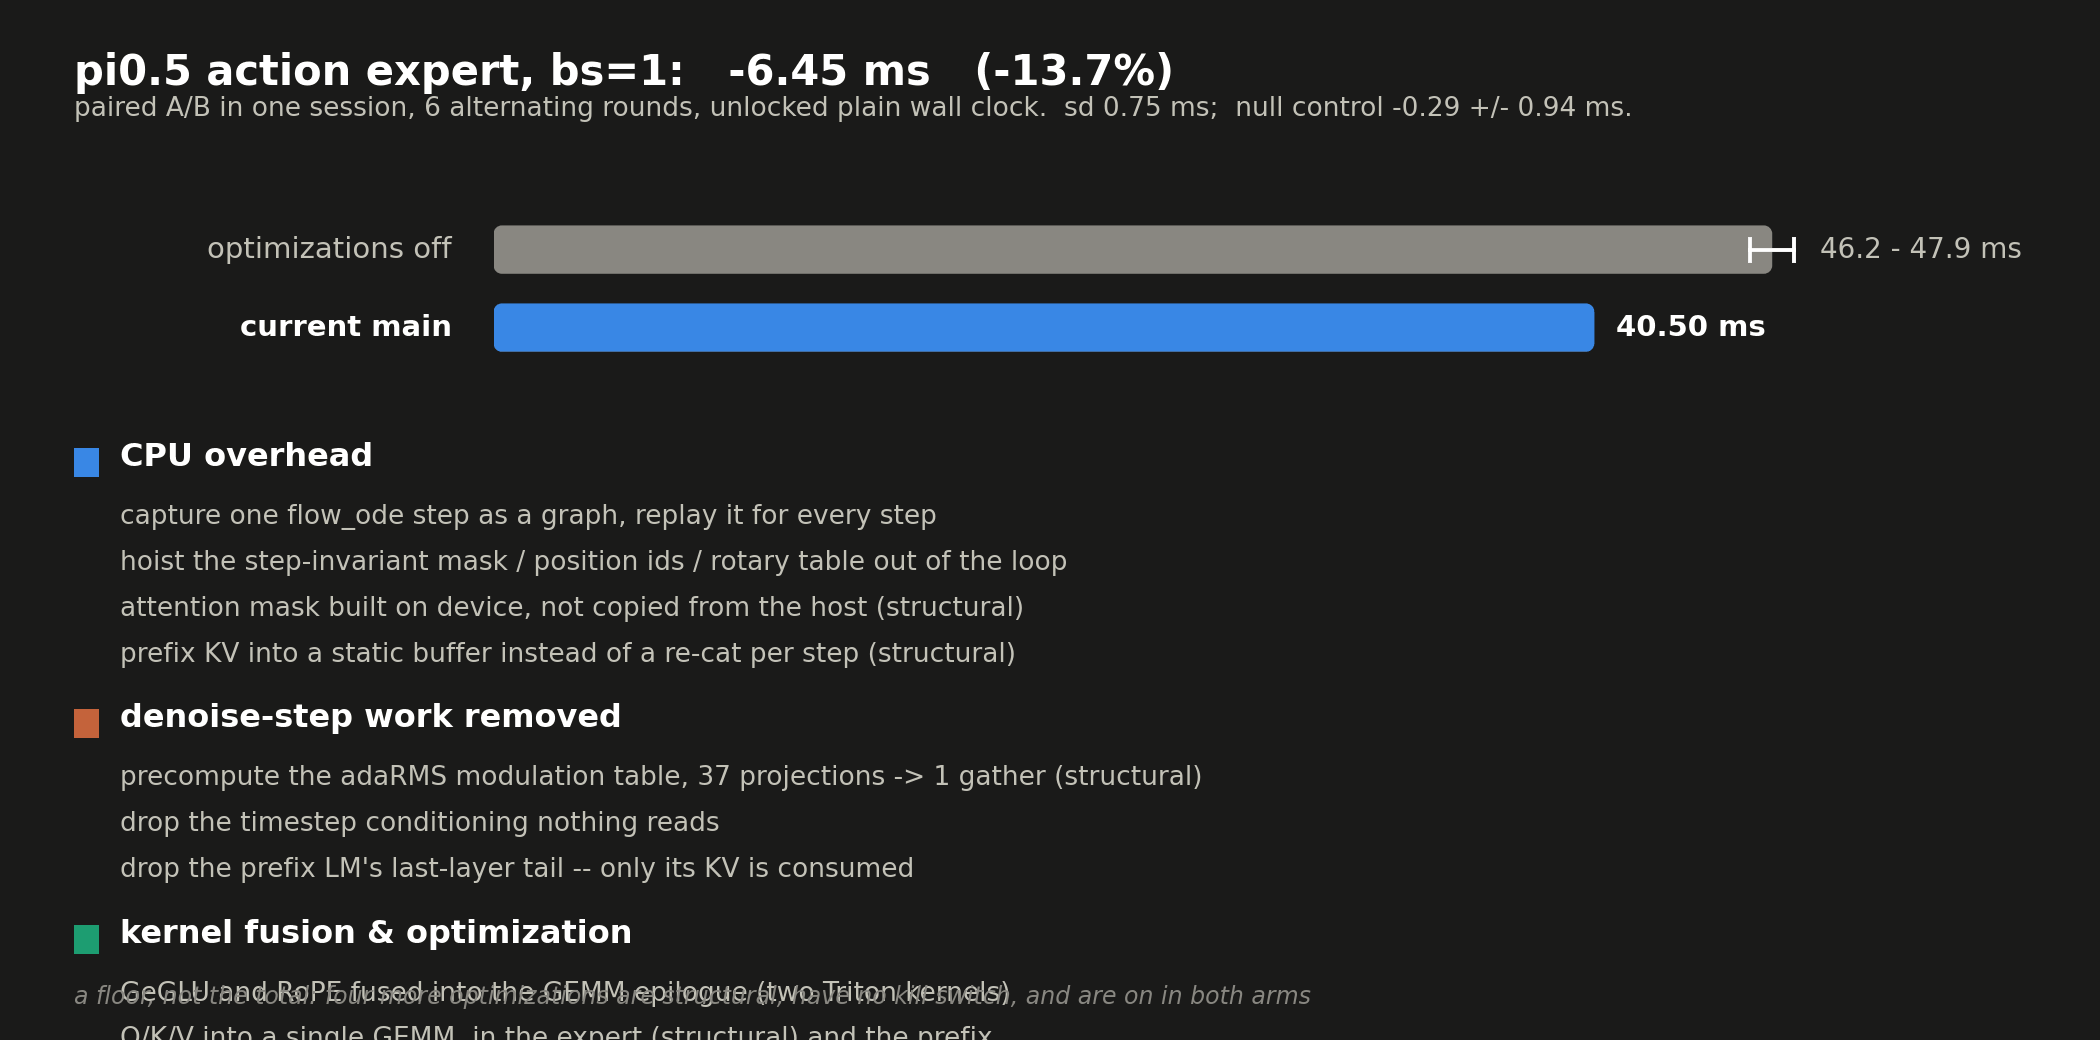
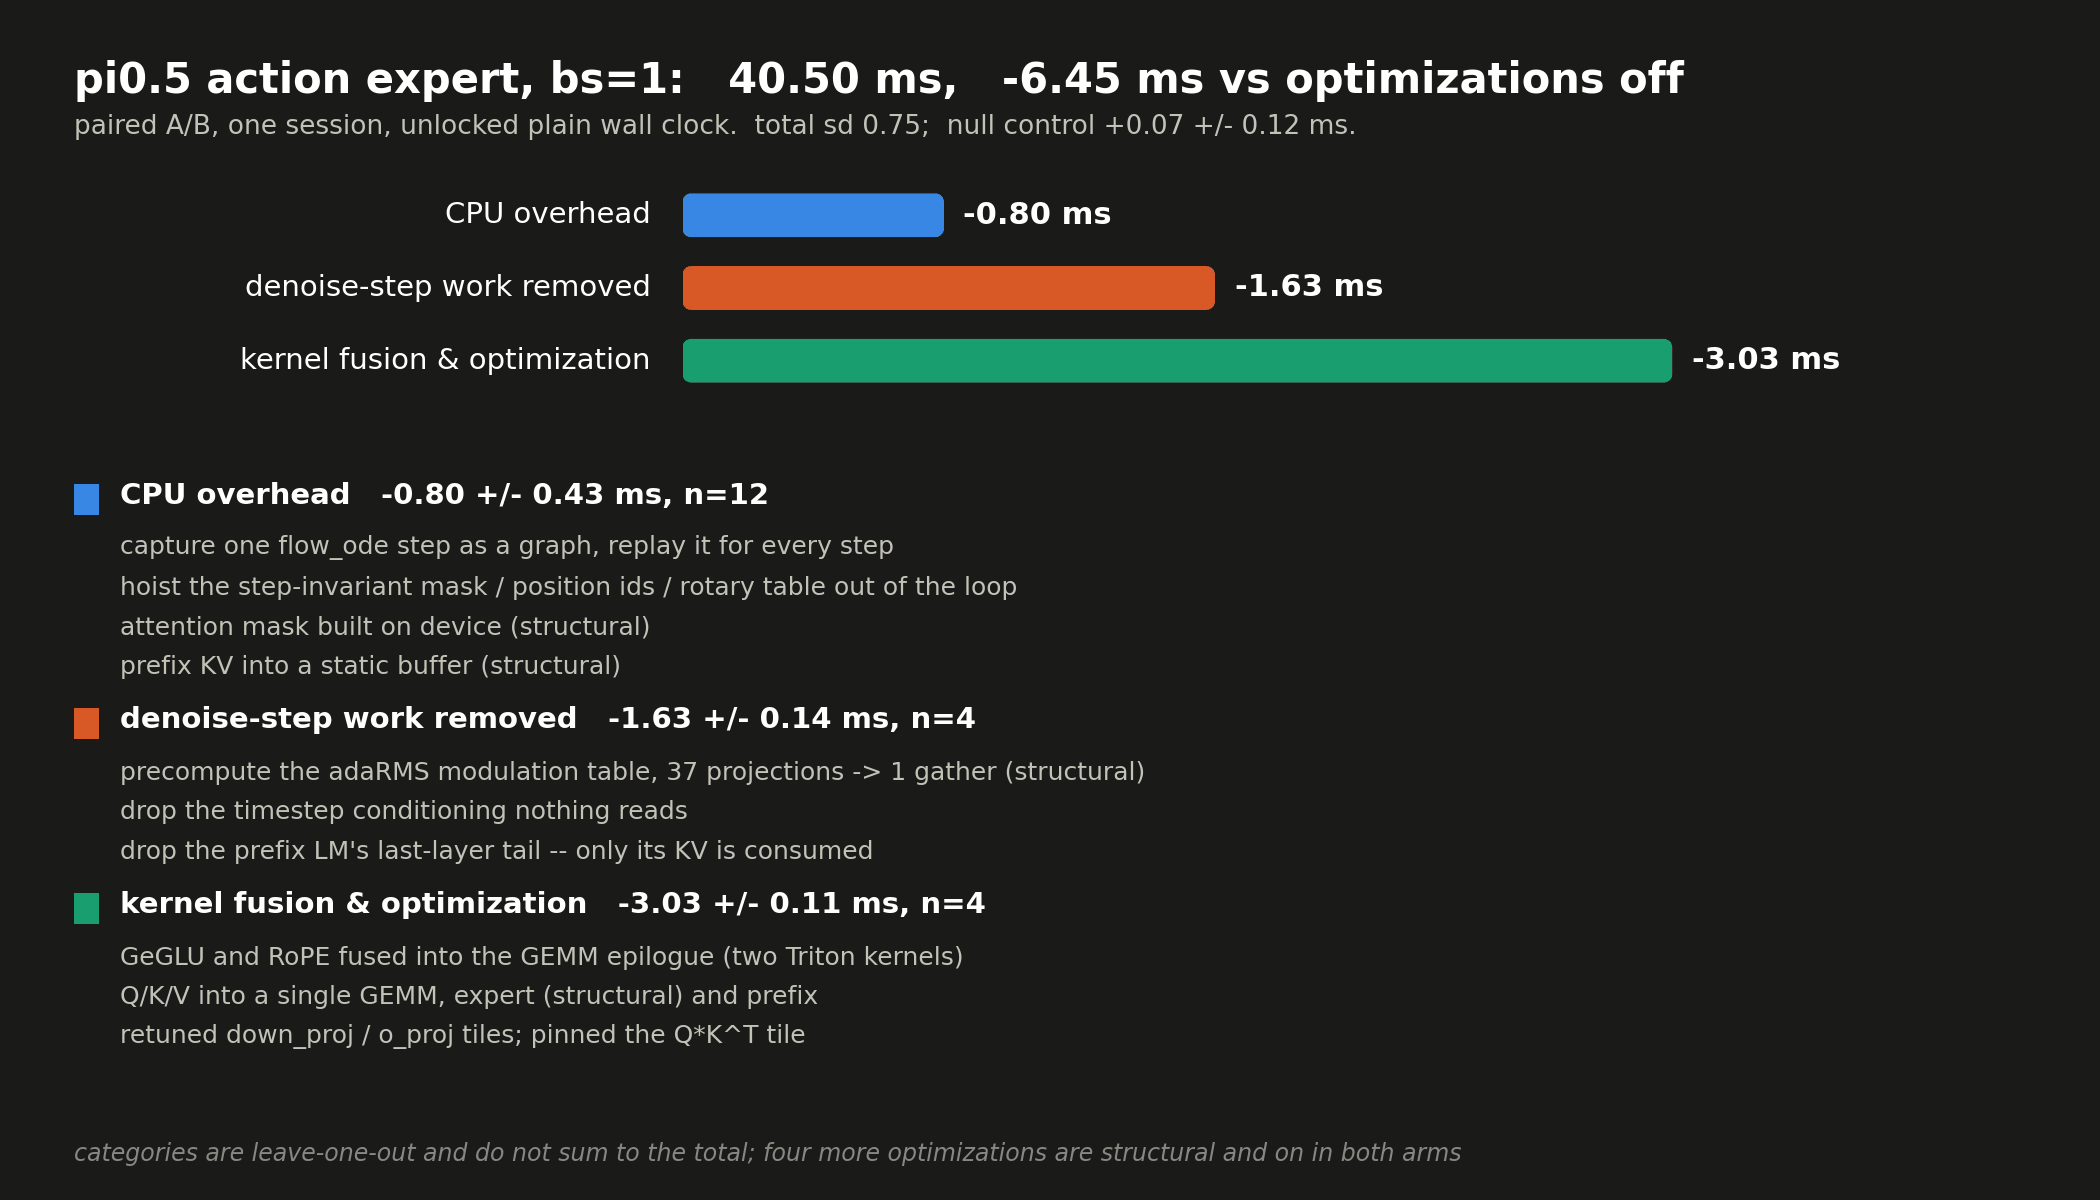
docs: measured category deltas replace the July ledger figures
Re-measured today on commit 6d78b8a, one session, unlocked plain wall clock,
alternating paired rounds, one shared inductor cache, GPU lock per round.

    total, all eight switchable optimizations off   -6.45 +/- 0.75   n=6
    null control                                    +0.07 +/- 0.12   n=9

    CPU overhead                     -0.80 +/- 0.43  n=12
    denoise-step work removed        -1.63 +/- 0.14  n=4
    kernel fusion & optimization     -3.03 +/- 0.11  n=4

Categories are leave-one-out from shipping defaults, so they are what turning a
group off costs. They sum to 5.46 rather than 6.45: interactions, plus the total
arm turns all eight off at once. The chart says so rather than forcing them to
agree.

Two things the numbers show that the July ledger did not. The CUDA graph and the
step-invariant hoisting are now the smallest category, at -0.80 -- in July the
graph alone measured -2.04, but that was against a build without the fusions and
the retiled GEMMs. With the kernels already faster there is less dispatch gap
left for a graph to hide, which is a real interaction rather than a discrepancy.
And that category is the only noisy one: sd 0.43 with rounds spanning 0.16 to
1.30, unchanged at n=12, so it is a property of the arm and not of the sample.
Within the kernel category, fusion -1.68 and tiles -1.20 sum to 2.88 against the
combined 3.03, so their interaction is +0.15.

The four structural optimizations have no kill switch and are on in both arms of
[…]

Changed region(s): [[0.031, 0.4, 0.681, 1.0], [0.0929, 0.1538, 0.9595, 0.3385], [0.031, 0.0308, 0.8048, 0.1231]]

diff --git a/docs/make_charts.py b/docs/make_charts.py
@@ -147,103 +147,93 @@ def _rounded_hbar(ax, y, x0, x1, height, color, radius_pt=4.0, zorder=3):
 
 
 # --------------------------------------------------------------------------
-# Chart 1 - what the shipped optimizations are worth, measured in one session
+# Chart 1 - what the shipped optimizations are worth
 # --------------------------------------------------------------------------
-# Paired A/B, 2026-08-03, commit 6d78b8a, RTX PRO 5000, torch 2.7.1+cu128.
-# Six alternating rounds (off,on / on,off), one shared inductor cache, GPU lock
-# held per round, clocks UNLOCKED and sampled (arms matched within 0.15%).
+# 2026-08-03, commit 6d78b8a, RTX PRO 5000, torch 2.7.1+cu128, clocks UNLOCKED
+# and sampled. Alternating paired rounds, one shared inductor cache, GPU lock held
+# per round. Null control +0.07 +/- 0.12 ms over 9 rounds.
 #
-# arm off = current main with its eight switchable optimizations disabled
-# arm on  = shipping defaults, --stage1
-#
-# Arm `off` is bimodal across processes: its per-run p50s split into two clusters
-# 1.5 ms apart with only +/-0.2 ms inside a run. Cause unidentified; it is not
-# clock, position, ordering or autotune. Alternation sampled 3 of each, so it does
-# not bias the delta, but it is why a single `off` p50 is not quotable and only
-# the paired delta is.
-ON_MS = 40.50  # median of 6 run medians; runs span 40.36 .. 40.58
-OFF_LO, OFF_HI = 46.23, 47.86
-DELTA, DELTA_SD = 6.45, 0.75
-NULL, NULL_SD = -0.29, 0.94
+# TOTAL: all eight switchable optimizations off at once, vs shipping defaults.
+# CATEGORIES: leave-one-out from shipping defaults, so they are what you lose by
+# turning that group off. They do not sum to the total -- interactions, and four
+# more optimizations are structural and on in both arms of every round.
+ON_MS = 40.50
+TOTAL, TOTAL_SD = 6.45, 0.75
+NULL, NULL_SD = 0.07, 0.12
 
-# Three categories, ordered top-down by the layer they act on: host side, then
-# the algorithm, then the kernels. Every item listed is switchable and therefore
-# inside the measured delta -- except the four marked (structural), which have no
-# kill switch and are on in both arms.
-BLOCKS = [
-    ("CPU overhead", [
-        "capture one flow_ode step as a graph, replay it for every step",
-        "hoist the step-invariant mask / position ids / rotary table out of the loop",
-        "attention mask built on device, not copied from the host (structural)",
-        "prefix KV into a static buffer instead of a re-cat per step (structural)",
-    ]),
-    ("denoise-step work removed", [
-        "precompute the adaRMS modulation table, 37 projections -> 1 gather (structural)",
-        "drop the timestep conditioning nothing reads",
-        "drop the prefix LM's last-layer tail -- only its KV is consumed",
-    ]),
-    ("kernel fusion & optimization", [
-        "GeGLU and RoPE fused into the GEMM epilogue (two Triton kernels)",
-        "Q/K/V into a single GEMM, in the expert (structural) and the prefix",
-        "retuned down_proj / o_proj tiles; pinned the Q*K^T tile",
-    ]),
+CATS = [
+    (
+        "CPU overhead",
+        0.80,
+        0.43,
+        12,
+        [
+            "capture one flow_ode step as a graph, replay it for every step",
+            "hoist the step-invariant mask / position ids / rotary table out of the loop",
+            "attention mask built on device (structural)",
+            "prefix KV into a static buffer (structural)",
+        ],
+    ),
+    (
+        "denoise-step work removed",
+        1.63,
+        0.14,
+        4,
+        [
+            "precompute the adaRMS modulation table, 37 projections -> 1 gather (structural)",
+            "drop the timestep conditioning nothing reads",
+            "drop the prefix LM's last-layer tail -- only its KV is consumed",
+        ],
+    ),
+    (
+        "kernel fusion & optimization",
+        3.03,
+        0.11,
+        4,
+        [
+            "GeGLU and RoPE fused into the GEMM epilogue (two Triton kernels)",
+            "Q/K/V into a single GEMM, expert (structural) and prefix",
+            "retuned down_proj / o_proj tiles; pinned the Q*K^T tile",
+        ],
+    ),
 ]
 
 FOOTNOTE = (
-    "a floor, not the total: four more optimizations are structural, have no kill "
-    "switch, and are on in both arms"
+    "categories are leave-one-out and do not sum to the total; four more "
+    "optimizations are structural and on in both arms"
 )
 
 
 def chart_ledger(mode: str) -> None:
-    """Two bars, the paired delta, and what is in the fast arm."""
     t = THEMES[mode]
     _style(t)
+    colors = [t["s1"], t["s2"], t["s3"]]
 
-    fig = plt.figure(figsize=(10.5, 5.2), dpi=200)
-    ax = fig.add_axes((0.235, 0.640, 0.700, 0.165))
-    ax.set_xlim(0, OFF_HI * 1.13)
-    ax.set_ylim(-0.6, 1.6)
+    fig = plt.figure(figsize=(10.5, 6.0), dpi=200)
+    ax = fig.add_axes((0.325, 0.660, 0.560, 0.200))
+    ax.set_xlim(0, 3.6)
+    ax.set_ylim(-0.65, 2.65)
     ax.axis("off")
 
-    off_mid = (OFF_LO + OFF_HI) / 2
-    _rounded_hbar(ax, 1, 0, off_mid, 0.62, t["muted"], radius_pt=3.0)
-    ax.plot([OFF_LO, OFF_HI], [1, 1], color=t["ink"], lw=1.4, zorder=6)
-    for xv in (OFF_LO, OFF_HI):
-        ax.plot([xv, xv], [0.86, 1.14], color=t["ink"], lw=1.4, zorder=6)
-    ax.text(
-        OFF_HI * 1.02,
-        1,
-        f"{OFF_LO:.1f} - {OFF_HI:.1f} ms",
-        ha="left",
-        va="center",
-        fontsize=10,
-        color=t["ink2"],
-    )
-
-    _rounded_hbar(ax, 0, 0, ON_MS, 0.62, t["s1"], radius_pt=3.0)
-    ax.text(
-        ON_MS * 1.02,
-        0,
-        f"{ON_MS:.2f} ms",
-        ha="left",
-        va="center",
-        fontsize=10.5,
-        fontweight="bold",
-        color=t["ink"],
-    )
-
-    # axes box is (0.235, 0.640, w, 0.165) with ylim (-0.6, 1.6): convert the two
-    # bar rows into figure coordinates so the labels cannot be clipped by the axes
-    for yv, lab, bold in ((1, "optimizations off", False), (0, "current main", True)):
-        fy = 0.640 + 0.165 * (yv + 0.6) / 2.2
-        fig.text(0.215, fy, lab, ha="right", va="center", fontsize=10.5,
-                 color=t["ink"] if bold else t["ink2"],
-                 fontweight="bold" if bold else "normal")
+    for i, ((label, ms, sd, n, _items), c) in enumerate(zip(CATS, colors)):
+        y = 2 - i
+        _rounded_hbar(ax, y, 0, ms, 0.60, c, radius_pt=3.0)
+        ax.text(
+            ms + 0.06,
+            y,
+            f"-{ms:.2f} ms",
+            ha="left",
+            va="center",
+            fontsize=11,
+            fontweight="bold",
+            color=t["ink"],
+        )
+        fy = 0.660 + 0.200 * (y + 0.65) / 3.30
+        fig.text(0.310, fy, label, ha="right", va="center", fontsize=10.5, color=t["ink"])
 
     fig.suptitle(
-        f"pi0.5 action expert, bs=1:   -{DELTA:.2f} ms   "
-        f"(-{100 * DELTA / (ON_MS + DELTA):.1f}%)",
+        f"pi0.5 action expert, bs=1:   {ON_MS:.2f} ms,   -{TOTAL:.2f} ms "
+        f"vs optimizations off",
         x=0.035,
         y=0.950,
         ha="left",
@@ -254,20 +244,20 @@ def chart_ledger(mode: str) -> None:
     fig.text(
         0.035,
         0.888,
-        f"paired A/B in one session, 6 alternating rounds, unlocked plain wall "
-        f"clock.  sd {DELTA_SD:.2f} ms;  null control {NULL:+.2f} +/- {NULL_SD:.2f} ms.",
+        f"paired A/B, one session, unlocked plain wall clock.  "
+        f"total sd {TOTAL_SD:.2f};  null control +{NULL:.2f} +/- {NULL_SD:.2f} ms.",
         ha="left",
         fontsize=9.5,
         color=t["ink2"],
     )
 
-    y = 0.545
-    for (label, items), c in zip(BLOCKS, (t["s1"], t["s2"], t["s3"])):
+    y = 0.575
+    for (label, ms, sd, n, items), c in zip(CATS, colors):
         fig.patches.append(
             plt.Rectangle(
                 (0.035, y - 0.004),
                 0.012,
-                0.028,
+                0.026,
                 transform=fig.transFigure,
                 facecolor=c,
                 edgecolor="none",
@@ -277,22 +267,22 @@ def chart_ledger(mode: str) -> None:
         fig.text(
             0.057,
             y,
-            label,
+            f"{label}   -{ms:.2f} +/- {sd:.2f} ms, n={n}",
             ha="left",
             va="bottom",
-            fontsize=11.5,
+            fontsize=10.5,
             fontweight="bold",
             color=t["ink"],
         )
-        y -= 0.055
+        y -= 0.042
         for it in items:
-            fig.text(0.057, y, it, ha="left", va="bottom", fontsize=9.5, color=t["ink2"])
-            y -= 0.044
-        y -= 0.020
+            fig.text(0.057, y, it, ha="left", va="bottom", fontsize=9, color=t["ink2"])
+            y -= 0.033
+        y -= 0.013
 
     fig.text(
         0.035,
-        0.030,
+        0.028,
         FOOTNOTE,
         ha="left",
         va="bottom",

diff --git a/README.md b/README.md
@@ -11,10 +11,11 @@ change of sampler, no reduction in denoising steps.
 
 <picture>
   <source media="(prefers-color-scheme: dark)" srcset="docs/ledger_dark.png">
-  <img alt="Paired A/B speedup, split into three categories: CPU overhead, denoise-step work removed, kernel fusion and optimization" src="docs/ledger_light.png">
+  <img alt="Paired A/B: 40.50 ms, -6.45 ms versus optimizations off, split into CPU overhead -0.80, denoise-step work removed -1.63, kernel fusion and optimization -3.03" src="docs/ledger_light.png">
 </picture>
 
 Current `main`: **40.50 ms**, unlocked plain wall clock, n=30, p50.
+**-6.45 ms** against the same build with its switchable optimizations off.
 
 <details>
 <summary>Where a denoise step goes</summary>

diff --git a/README.zh-CN.md b/README.zh-CN.md
@@ -10,10 +10,11 @@
 
 <picture>
   <source media="(prefers-color-scheme: dark)" srcset="docs/ledger_dark.png">
-  <img alt="配对 A/B 测出的加速,按三类拆开:CPU 开销、去噪步冗余削减、kernel 融合与调优" src="docs/ledger_light.png">
+  <img alt="配对 A/B:40.50 ms,相对关掉优化快 6.45 ms,分三类:CPU 开销 -0.80、去噪步冗余削减 -1.63、kernel 融合与调优 -3.03" src="docs/ledger_light.png">
 </picture>
 
 当前 `main`:**40.50 ms**,不锁频 plain wall clock,n=30,p50。
+相对同一构建关掉可开关的优化,**快 6.45 ms**。
 
 <details>
 <summary>一个去噪步花在哪里</summary>
